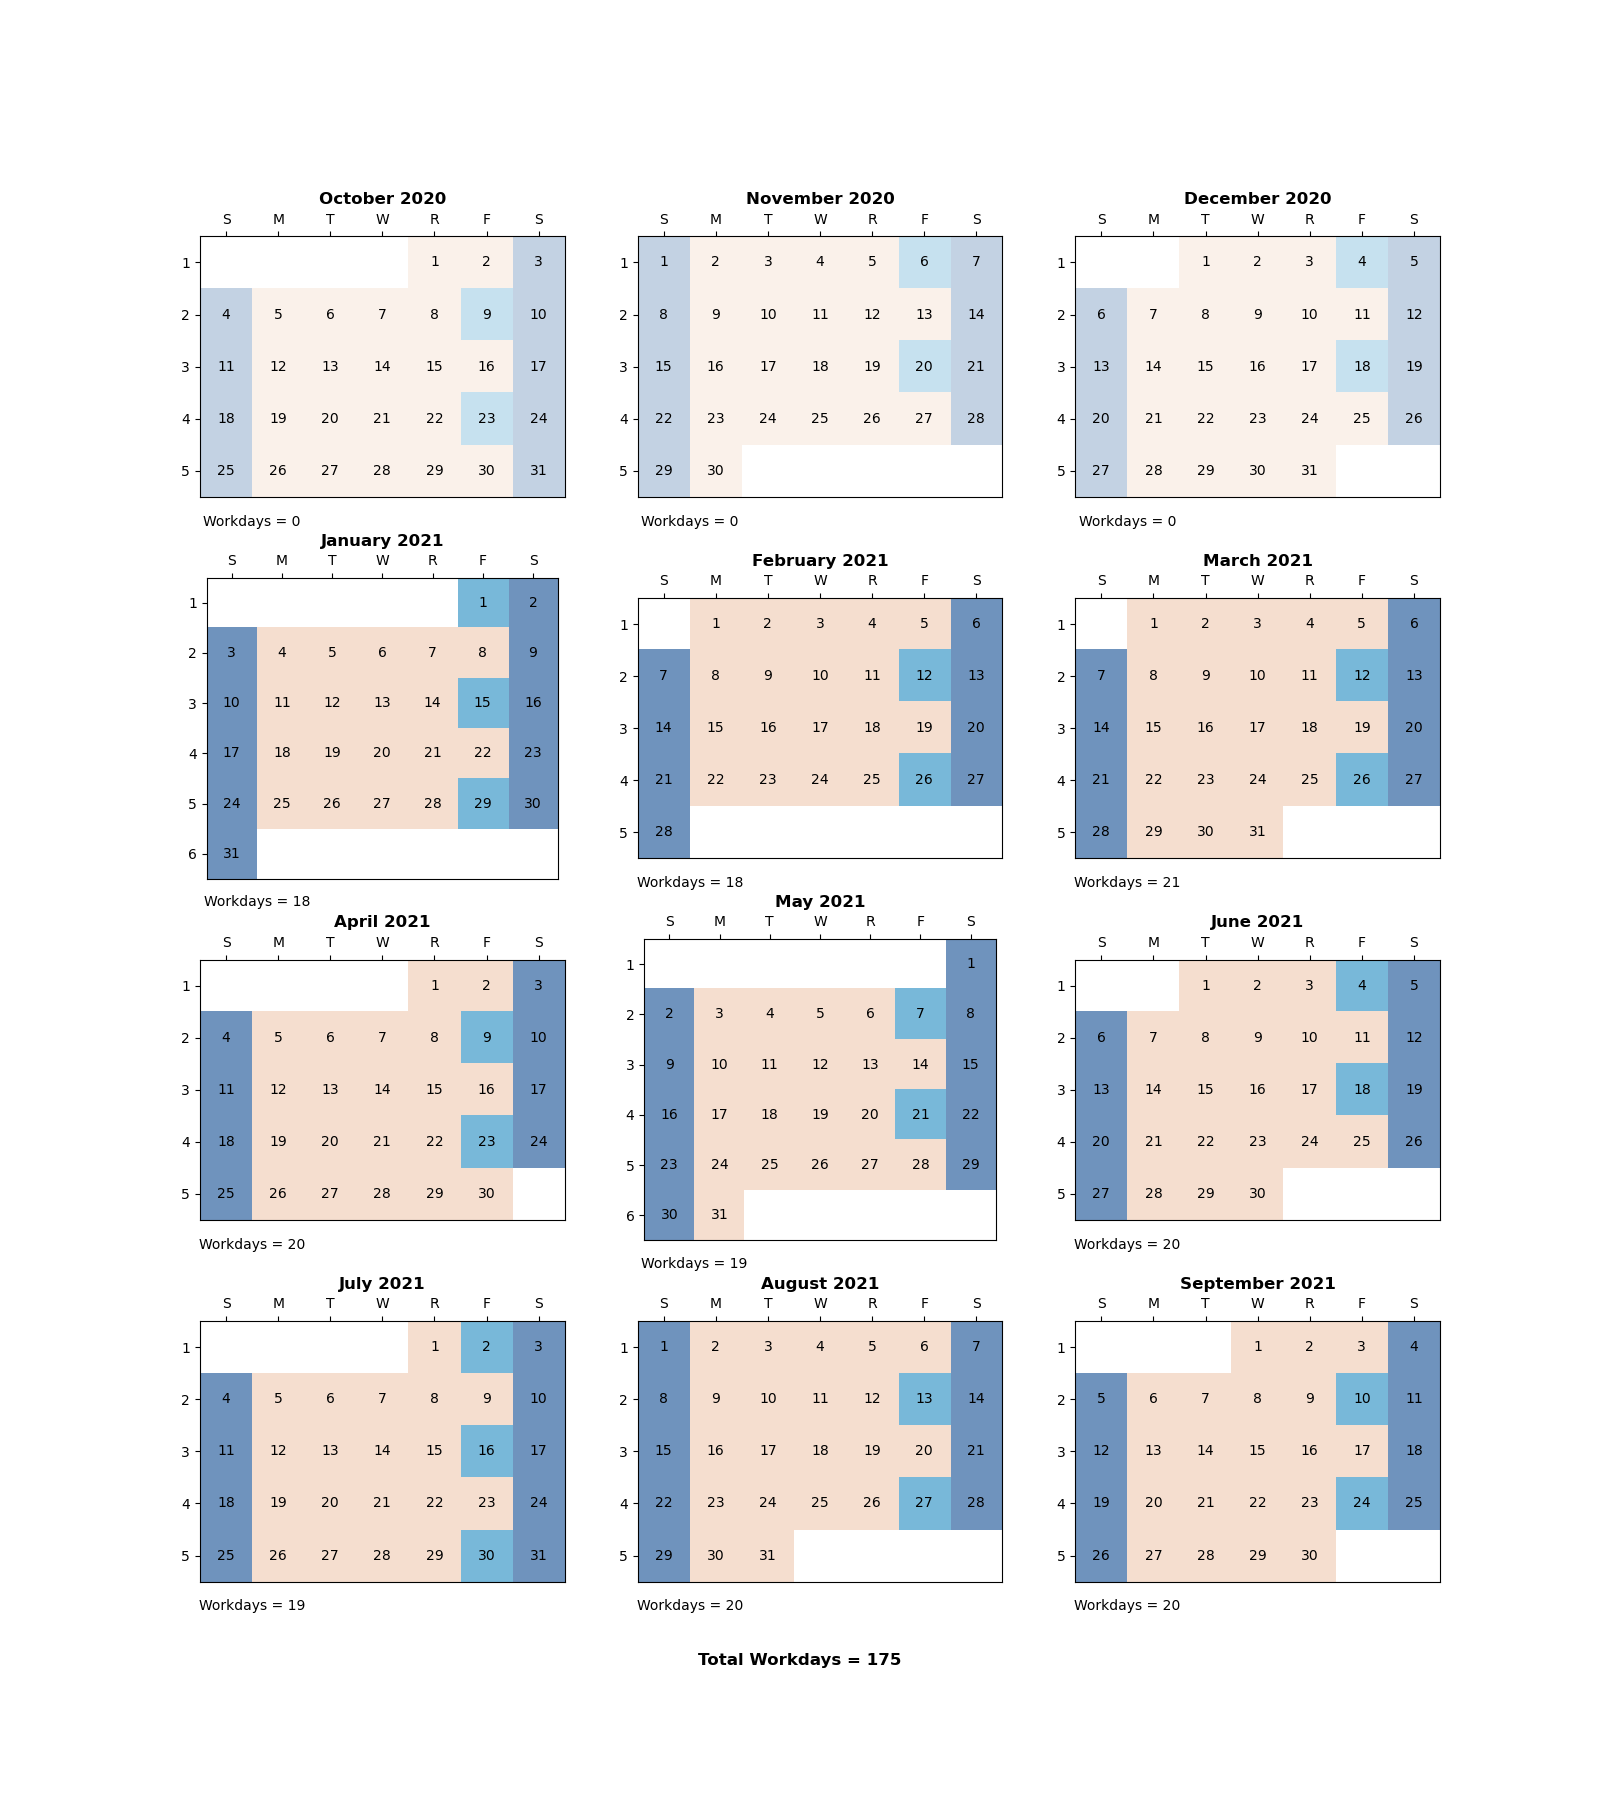
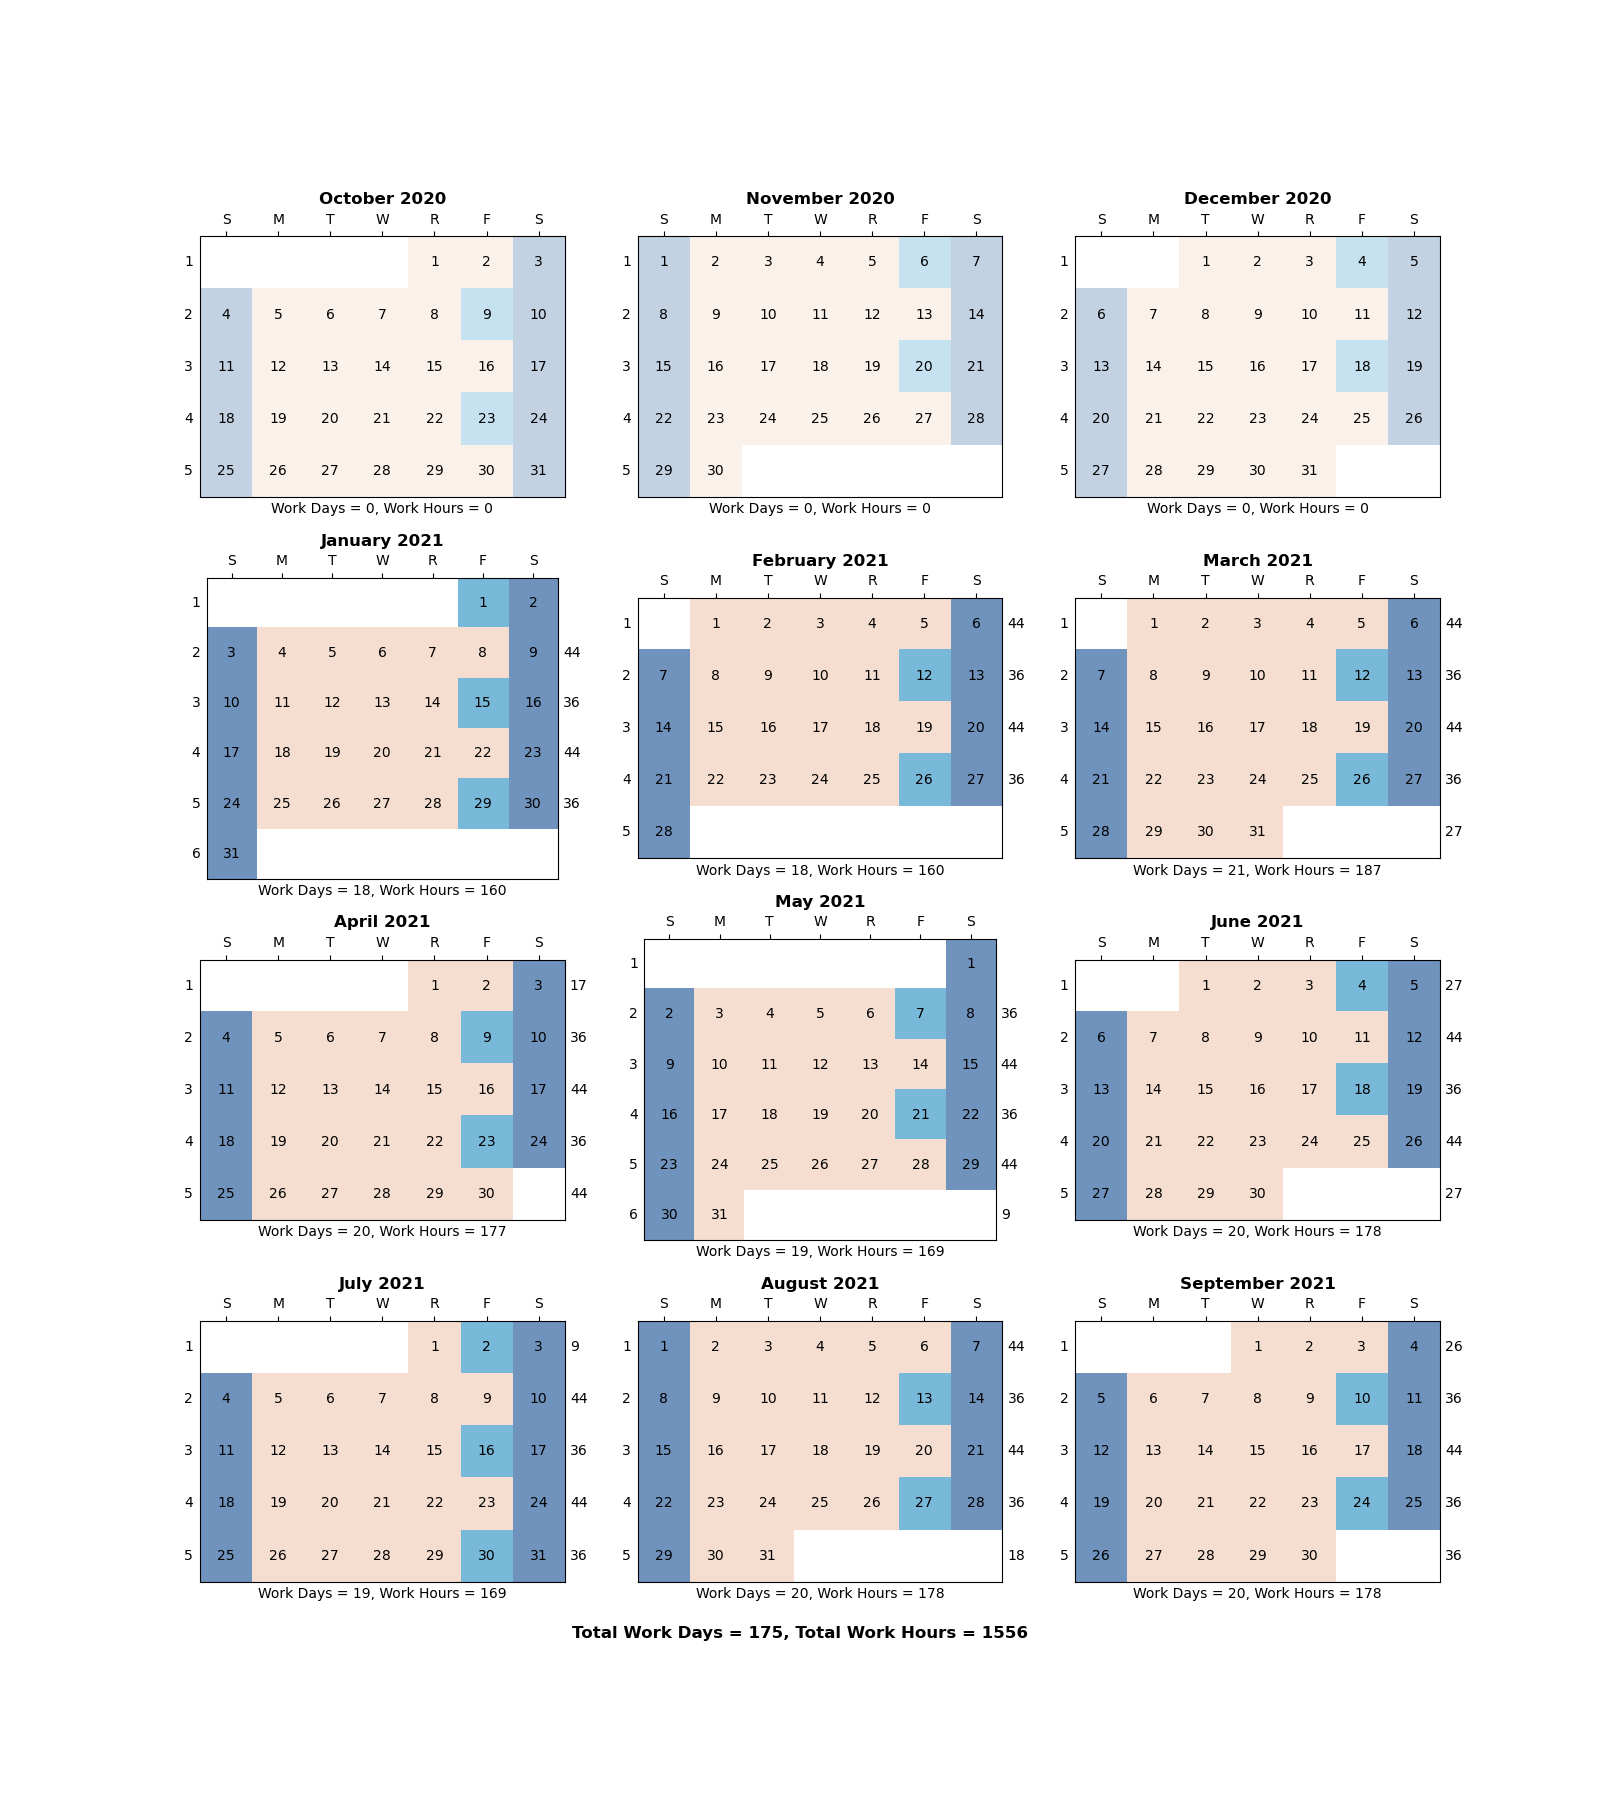
Added hours totalling

diff --git a/fiscal_calculator.py b/fiscal_calculator.py
@@ -1,5 +1,4 @@
-import fiscalyear
-# import workdays
+import os
 import calendar
 import datetime as dt
 import matplotlib.pyplot as plt
@@ -10,6 +9,8 @@ import pandas as pd
 import json
 from collections import namedtuple
 from json import JSONEncoder
+
+os.system("clear")
 
 def format_print(label, value):
     value_str = str(value)
@@ -98,9 +99,11 @@ def swap_months(dates, data, end_year):
 def map_calendar(start_date, end_date, fridays, weekends, active_days):
     days = (end_date - start_date).days
     dates = []
-    data = []
+    month_categories = []
+    month_hours = []
     day_types = ['weekday_active', 'weekday_inactive', 'weekend_active', 'weekend_inactive', 'friday_off_active', 'friday_off_inactive']
-    day_type_counts = {}
+    week_counts_counts = {}
+    month_day_type_counts = {}
 
     cat_count = len(day_types)
     incr = 1
@@ -108,10 +111,11 @@ def map_calendar(start_date, end_date, fridays, weekends, active_days):
     coding_dict = {}
     for x in range(cat_count):
         coding_dict.update({day_types[x]:round(incr*x,2)})
-        day_type_counts.update({day_types[x]:0})
+        month_day_type_counts.update({day_types[x]:0})
 
     for x in range(0, days+1):
         code = ''
+        day_hours = 0
 
         if start_date+dt.timedelta(x) in active_days:
             if start_date+dt.timedelta(x) in fridays:
@@ -120,7 +124,11 @@ def map_calendar(start_date, end_date, fridays, weekends, active_days):
                 code = 'weekend_active'
             else:
                 code = 'weekday_active'
-            
+                #friday on
+                if ((start_date+dt.timedelta(x)).weekday() == 4):
+                    day_hours = 8
+                else:
+                    day_hours = 9
 
         else:
             if start_date+dt.timedelta(x) in fridays:
@@ -130,11 +138,15 @@ def map_calendar(start_date, end_date, fridays, weekends, active_days):
             else:
                 code = 'weekday_inactive'
 
-        data.append(coding_dict[code])
+        month_categories.append(coding_dict[code])
+        month_hours.append(day_hours)
         dates.append(start_date+dt.timedelta(x))
-        day_type_counts.update({code:day_type_counts[code]+1})
+        month_day_type_counts.update({code:month_day_type_counts[code]+1})
 
-    return dates, data, day_type_counts
+    
+    # print(month_categories)
+    # print(month_hours)
+    return dates, month_categories, month_hours, month_day_type_counts
 
 def month_segments(dates):
     months = []
@@ -163,12 +175,23 @@ def get_week_of_month(year, month, day):
     week_of_month = np.where(x==day)[0][0]
     return(week_of_month)
 
-def calendar_array(fig, ax, dates, data, day_type_count_dict):
+def calendar_array(fig, ax, dates, month_categories, month_hours, day_type_count_dict):
     i = []
     j = []
     last_week_count = None
 
-    print(dates[0].month)
+
+
+    month = dates[0].strftime('%B')
+    # month_log_dict = {'month':dates[0].month, 'week_count':last_week_count+1, 'days_count':len(dates)}
+
+    week_logs = []
+    week_hours_log_dict = {}
+
+    curr_week = get_week_of_month(dates[0].year, dates[0].month, dates[0].day)
+    last_week = -1
+
+
 
     for c, d in enumerate(dates):
         i.append(get_week_of_month(d.year, d.month, d.day))
@@ -180,44 +203,62 @@ def calendar_array(fig, ax, dates, data, day_type_count_dict):
         if c == len(dates)-1:
             last_week_count = get_week_of_month(d.year, d.month, d.day)
 
+        curr_week = get_week_of_month(d.year, d.month, d.day)
+
+        if curr_week != last_week:
+            if bool(week_hours_log_dict):
+                week_logs.append(week_hours_log_dict)
+                week_hours_log_dict = {}
+            week_hours_log_dict.update({'year':dates[0].year, 'month_name':month, 'month':dates[0].month, 'week':curr_week+1, 'hours':month_hours[c]})
+        else:
+            week_hours_log_dict.update({'hours':week_hours_log_dict['hours']+month_hours[c]})
+        last_week = int(curr_week)
+    week_logs.append(week_hours_log_dict)
+
     ni = max(i)+1
 
-    log_dict = {'month':d.month, 'weekd_count':last_week_count+1, 'days_count':len(dates)}
+    month_log_dict = {'year':dates[0].year, 'month_name':month, 'month':dates[0].month, 'week_count':last_week_count+1, 'days_count':len(dates)}
     format_print('*'*100,'')
-    format_print(d.strftime('%B'), d.month)
+    format_print(dates[0].strftime('%B'), dates[0].month)
     format_print('Total Weeks', last_week_count+1)
     format_print('Total Days', len(dates))
 
-    data_label = 'Workdays = {}'.format(day_type_count_dict['weekday_active'])
-    ax.text(0.5, last_week_count+1.05, data_label, ha='center')
+    hours_count = 0
+    for k, row in enumerate(week_logs):
+        hours_count+=row['hours']
 
-    dict_targets = ['weekday_active', 'weekday_inactive', 'weekend_active', 'weekend_inactive', 'friday_off_active', 'friday_off_inactive']
+    data_label = 'Work Days = {}, Work Hours = {}'.format(day_type_count_dict['weekday_active'], hours_count)
+    print(data_label)
+    ax.text(3, last_week_count+0.6, data_label, ha='center', va='top')
+
+    # dict_targets = ['weekday_active', 'weekday_inactive', 'weekend_active', 'weekend_inactive', 'friday_off_active', 'friday_off_inactive']
     for key in day_type_count_dict:
         format_print(key, day_type_count_dict[key])
-        log_dict.update({key:day_type_count_dict[key]})
+        month_log_dict.update({key:day_type_count_dict[key]})
+
 
     calendar = np.nan * np.zeros((ni, 7))
     print(calendar.shape)
-    calendar[i, j] = data
+    calendar[i, j] = month_categories
 
     print(calendar)
 
-    return i, j, calendar, log_dict
+    return i, j, calendar, month_log_dict, week_logs
 
-def calendar_highlight(fig, ax, dates, data, day_type_count_dict):
-    i, j, calendar, log_dict = calendar_array(fig, ax, dates, data, day_type_count_dict)
+def calendar_highlight(fig, ax, dates, month_categories, month_hours, day_type_count_dict):
+    i, j, calendar, month_log_dict, weeks_log = calendar_array(fig, ax, dates, month_categories, month_hours, day_type_count_dict)
 
     #'weekday_active', 'weekday_inactive', 'weekend_active', 'weekend_inactive', 'friday_off_active', 'friday_off_inactive'
     colors = ['#efc9af99', '#efc9af40', '#104c9199', '#104c9140', '#1f8ac099', '#1f8ac040']
     cmap = ListedColormap(colors)
 
     im = ax.imshow(calendar, interpolation='none', cmap=cmap, vmin=0, vmax=len(colors))
-    label_days(ax, dates, i, j, calendar)
-    return log_dict
+    label_days(ax, dates, i, j, calendar, weeks_log)
+    return month_log_dict, weeks_log
     # label_months(ax, dates, i, j, calendar)
     # ax.figure.colorbar(im)
 
-def label_days(ax, dates, i, j, calendar):
+def label_days(ax, dates, i, j, calendar, weeks_log):
     ni, nj = calendar.shape
    
     day_of_month = np.nan * np.zeros((ni, 7))
@@ -232,43 +273,39 @@ def label_days(ax, dates, i, j, calendar):
            xticklabels=['S', 'M', 'T', 'W', 'R', 'F', 'S'])
     ax.xaxis.tick_top()
 
-    ax.set(yticks=np.arange(ni))
-    ax.set_yticklabels([str(x+1) for x in np.arange(ni)])
+    ax.yaxis.set_visible(False)
+    week_counts = [str(x+1) for x in np.arange(ni)]
+    for i, count in enumerate(week_counts):
+        ax.text(-0.8, i, str(count), ha='left', va='center')
 
+    # ax.set_yticks(np.arange(ni))
+    # ax.set_yticklabels([str(x+1) for x in np.arange(ni)])
 
-def plot_month(fig, ax, dates, data, day_type_count_dict, title):
-    log_dict = calendar_highlight(fig, ax, dates, data, day_type_count_dict)
+    hour_counts = []
+    for i, row in enumerate(weeks_log):
+        hour_counts.append(row['hours'])
+
+    for i, count in enumerate(hour_counts):
+        if count > 0:
+            hour_text = str(count)
+        else:
+            hour_text = ''
+        ax.text(6.6, i, hour_text, ha='left', va='center')
+
+def plot_month(fig, ax, dates, month_categories, month_hours, day_type_count_dict, title):
+    month_log_dict, weeks_log = calendar_highlight(fig, ax, dates, month_categories, month_hours, day_type_count_dict)
     ax.set_title(title, fontweight='bold')
-    return log_dict
+    return month_log_dict, weeks_log
 
 
 def config_decoder(param_dict):
-    # param_dict_datetime = {}
-    # for key in param_dict:
-    #     x = namedtuple('X', param_dict.keys())(*[dt.datetime.strptime(s, '%Y-%m-%d') for s in param_dict.values()])
-    # x = namedtuple('X', param_dict.keys())(*param_dict.values())
-
-    # print(x)
     return namedtuple('config_decoding', param_dict.keys())(*[dt.datetime.strptime(s, '%Y-%m-%d') for s in param_dict.values()])
-
 
 class Config:
     def __init__(self, fy_start_date, fy_end_date, friday_off_start_date, sunday_start_date, active_start_date):
         self.fy_start_date, self.fy_end_date, self.friday_off_start_date, self.sunday_start_date, self.active_start_date = fy_start_date, fy_end_date, friday_off_start_date, sunday_start_date, active_start_date
 #         date_time_str = '2018-06-29 08:15:27.243860'
 #         date_time_obj = dt.datetime.strptime(date_time_str, '%Y-%m-%d %H:%M:%S.%f')
-
-# print('Date:', date_time_obj.date())
-# print('Time:', date_time_obj.time())
-# print('Date-time:', date_time_obj)
-
-
-        
-
-        
-
-
-
 
 def main():
 
@@ -284,7 +321,7 @@ def main():
 
     weekend_day_count, weekends = weekend_days(config.fy_start_date, config.sunday_start_date, config.fy_end_date)
 
-    dates, data, day_type_counts = map_calendar(config.fy_start_date, config.fy_end_date, fridays_off, weekends, active_days)
+    dates, month_categories, month_hours, day_type_counts = map_calendar(config.fy_start_date, config.fy_end_date, fridays_off, weekends, active_days)
 
     #create 12 month bins
     month_arrays = month_segments(dates)
@@ -297,20 +334,28 @@ def main():
 
     active_weekdays_count_total = 0
 
+    weeks_data = []
     months_data = []
 
     for c in range(columns):
         for r in range(rows):
-            dates, data, day_type_count = map_calendar(month_arrays[mo_counter][0], month_arrays[mo_counter][-1], fridays_off, weekends, active_days)
-            active_weekdays_count_total += day_type_count['weekday_active']
-            log_dict = plot_month(fig, ax[c,r], dates, data, day_type_count, dates[0].strftime('%B %Y'))
-            months_data.append(log_dict)
+            dates, month_categories, month_hours, day_type_counts = map_calendar(month_arrays[mo_counter][0], month_arrays[mo_counter][-1], fridays_off, weekends, active_days)
+            active_weekdays_count_total += day_type_counts['weekday_active']
+            month_log_dict, weeks_log = plot_month(fig, ax[c,r], dates, month_categories, month_hours, day_type_counts, dates[0].strftime('%B %Y'))
+            months_data.append(month_log_dict)
+            weeks_data.extend(weeks_log)
             mo_counter += 1  
 
-    df = pd.DataFrame(months_data)
-    df.to_csv('fiscal_output.csv', index=False)
+    df_months = pd.DataFrame(months_data)
+    df_months.to_csv('fiscal_months_output.csv', index=False)
+    df_weeks = pd.DataFrame(weeks_data)
+    df_weeks.to_csv('fiscal_weeks_output.csv', index=False)
 
-    fig.text(0.5, 0.075, 'Total Workdays = {}'.format(active_weekdays_count_total), fontsize = 12, fontweight='bold', ha='center')
+    hour_count = 0
+    for i, row in enumerate(weeks_data):
+        hour_count+=row['hours']
+
+    fig.text(0.5, 0.09, 'Total Work Days = {}, Total Work Hours = {}'.format(active_weekdays_count_total, hour_count), fontsize = 12, fontweight='bold', ha='center')
 
     format_print('Total Active Weekdays', active_weekdays_count_total)
 
